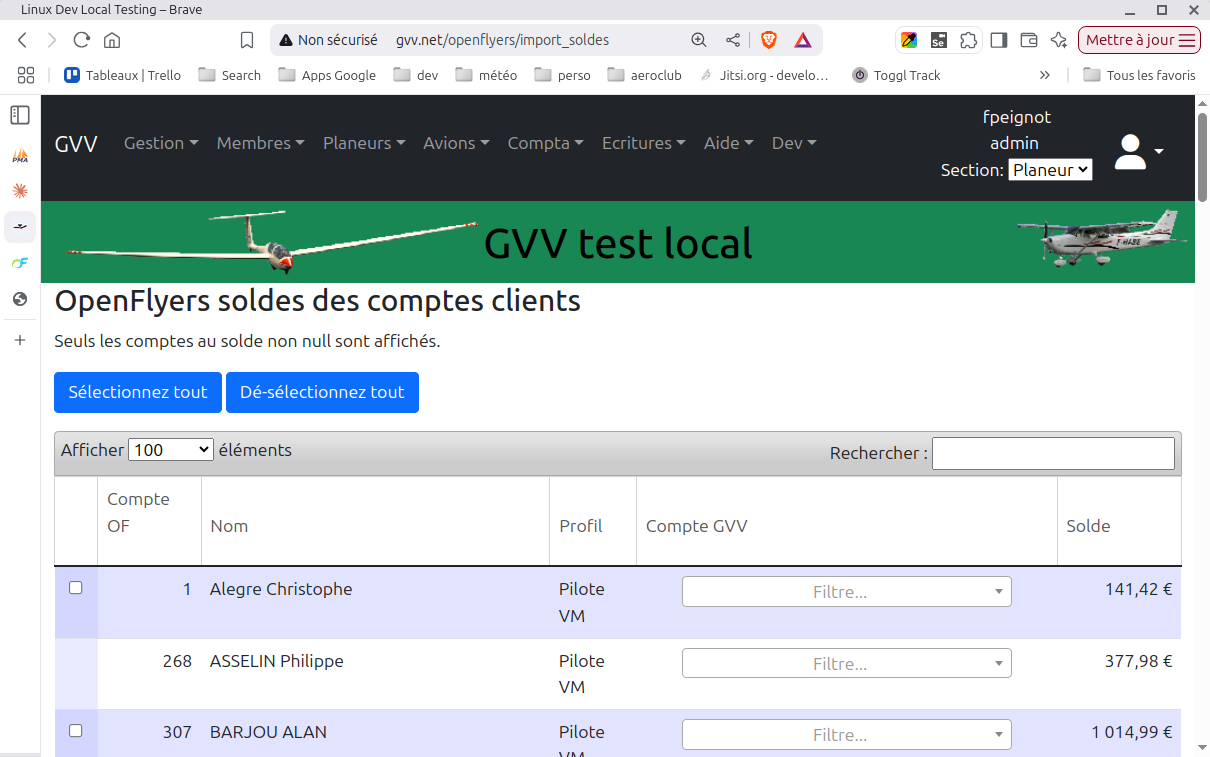
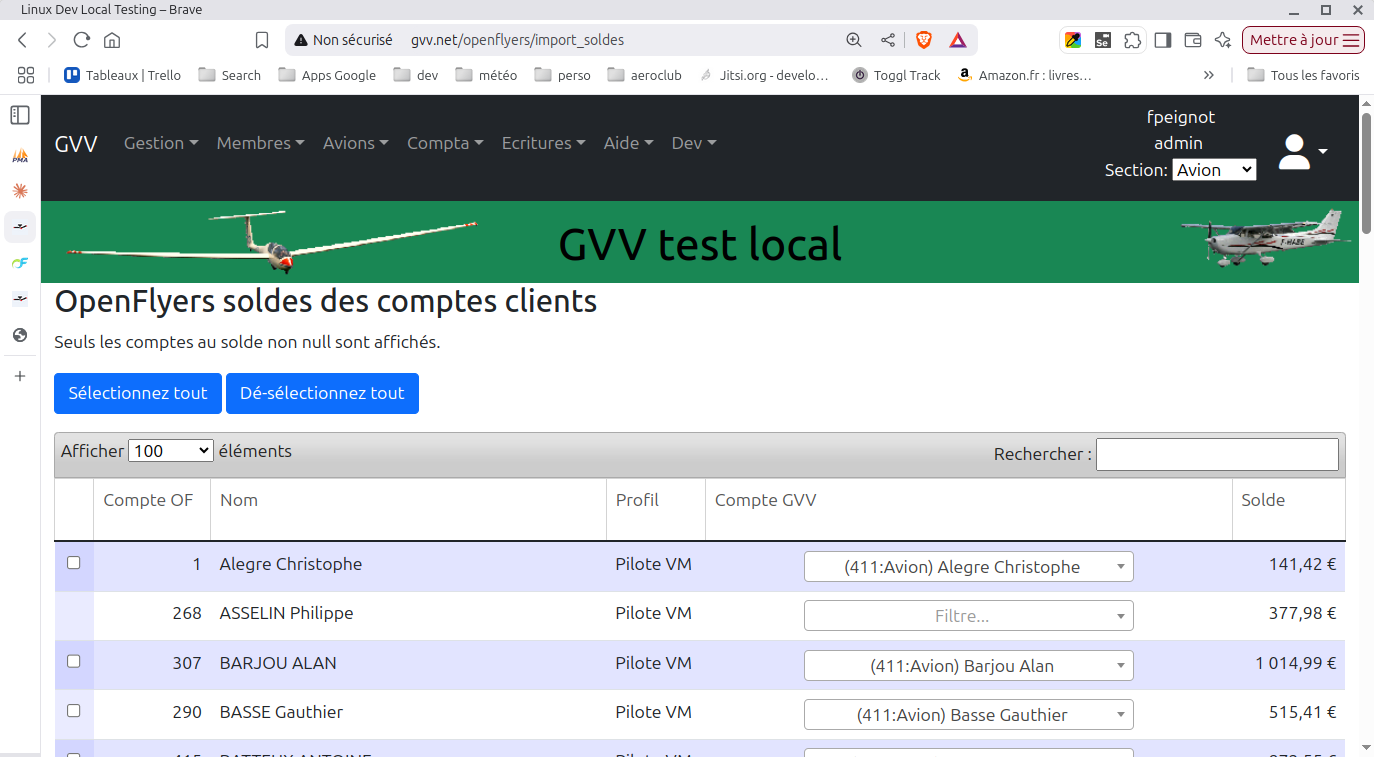
Correction pb affichage des comptes

diff --git a/application/views/comptes/bs_tableView.php b/application/views/comptes/bs_tableView.php
@@ -122,8 +122,8 @@ $this->lang->load('comptes');
 
 
 	if ($detail) {
-		$footer[] = ['', $this->lang->line("comptes_label_totals"), euro($total['debit']), euro($total['credit']), euro($total['solde_debit']), euro($total['solde_credit']), '', ''];
-		$footer[] = ['', $this->lang->line("comptes_label_totals_balance"), euro($total['solde_debit']), euro($total['solde_credit']), '', ''];
+		// $footer[] = ['', $this->lang->line("comptes_label_totals"), euro($total['debit']), euro($total['credit']), euro($total['solde_debit']), euro($total['solde_credit']), '', ''];
+		$footer[] = ['', $this->lang->line("comptes_label_totals_balance"), '', euro($total['solde_debit']), euro($total['solde_credit']), ''];
 	}
 
 	if ($general) {

diff --git a/application/controllers/openflyers.php b/application/controllers/openflyers.php
@@ -237,6 +237,13 @@ class OpenFlyers extends CI_Controller {
             'description' => 'Initialisation du solde',
             'saisie_par' => $this->dx_auth->get_username()
         );
+        if ($solde < 0) {
+            // On inverse 
+            $data['compte1'] = $compte_gvv;
+            $data['compte2'] = $fonds_associatif['id'];
+            $data['montant'] = - $solde;
+        } 
+
         // var_dump($data);
 
         $ecriture = $this->ecritures_model->create($data);

diff --git a/application/libraries/SoldesParser.php b/application/libraries/SoldesParser.php
@@ -79,7 +79,6 @@ class SoldesParser {
         $CI->load->model('associations_of_model');
         $CI->load->model('ecritures_model');
 
-
         // values for the compte selector select
         $compte_selector = $CI->comptes_model->selector_with_null(["codec =" => "411"], TRUE);
 

diff --git a/doc/features/openflyers_user.md b/doc/features/openflyers_user.md
@@ -34,7 +34,9 @@ Import de la balance dans GVV
 
 ![OpenFlyers Balance des comptes utilisateurs](../images/select_balance_import.png)
 
-Voici la fenêtre des soldes clients.
+Voici la fenêtre des soldes clients. La vous allez pouvoir:
+* choisir le compte GVV à associer pour les comptes non associés.
+* sélectionner les comptes que vous voulez initialiser avec leur solde initial. Les balances initiales seront équilibré avec une écriture sur le compte 102 (Fonds associatifs) de la section. Si un compte à déjà été initialisé il n'y a plus de checkbox pour le sélectionner.
 
 ![Soldes client](../images/soldes_client.png)
 
